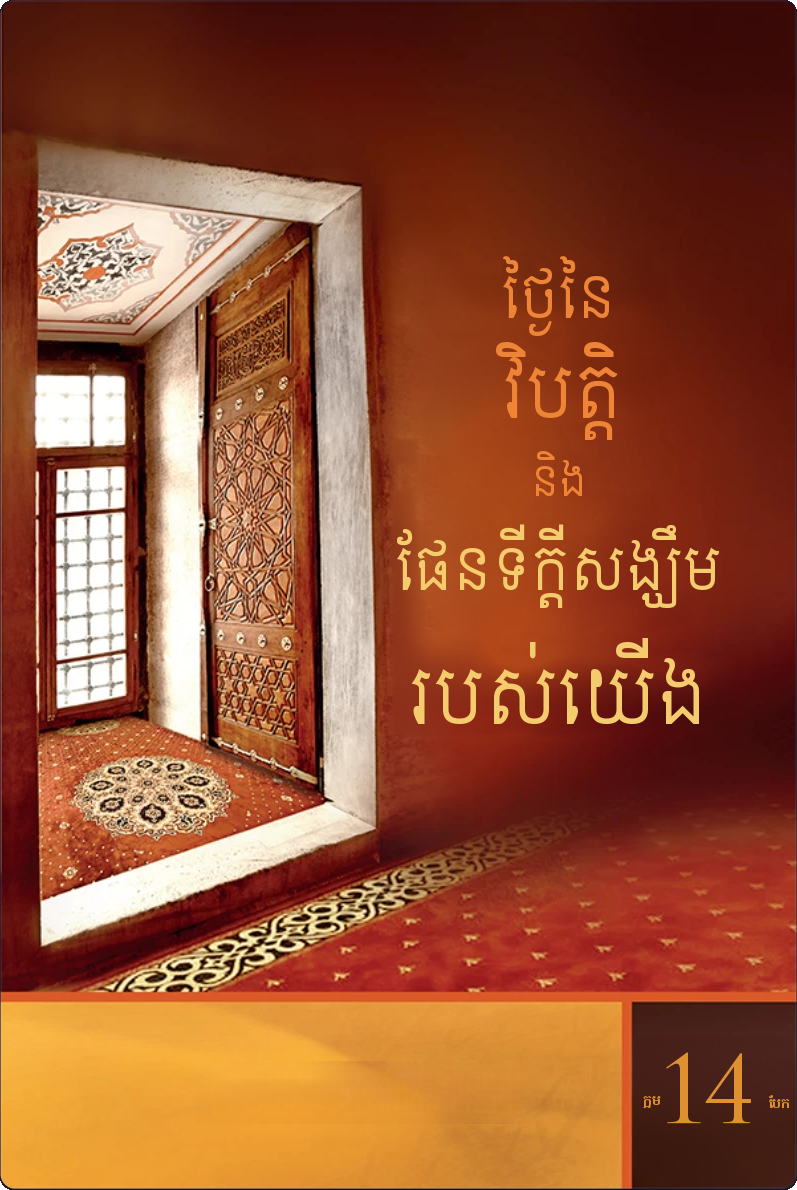
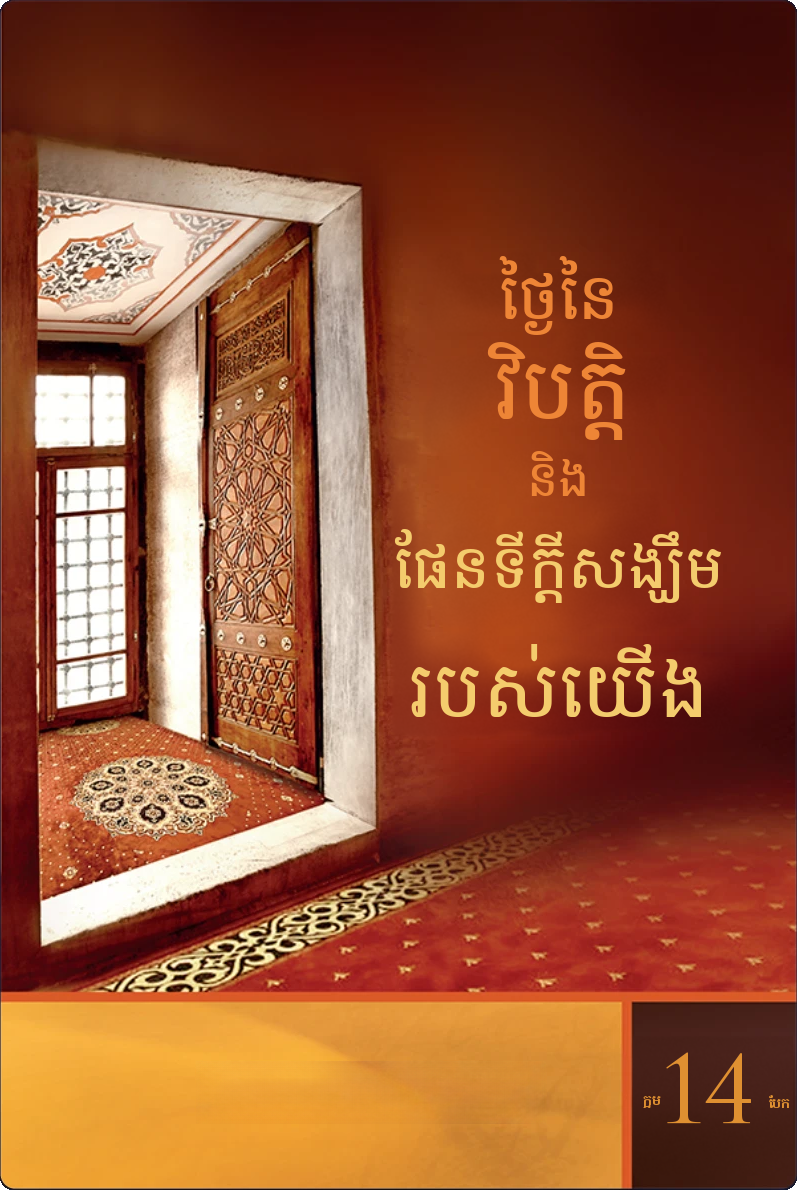
Kırık Testi 14: title in Suwannaphum Regular
Claude-Session: https://claude.ai/code/session_01HzzWWnp1YQyDSmbqFiedxq

Changed region(s): [[0.4818, 0.2176, 0.9034, 0.5286], [0.5119, 0.5286, 0.8733, 0.6218]]

diff --git a/covers/kirik14/make_khmer.py b/covers/kirik14/make_khmer.py
@@ -20,11 +20,11 @@ CX = 588
 
 # text, font, max width, ink height, centre y, colour, shadow colour (None = no shadow)
 LINES = [
-    ("ថ្ងៃនៃ", "Siemreap.ttf", 240, 80, 300, (238, 133, 54), None),           # buhranlı
-    ("វិបត្តិ", "Siemreap.ttf", 260, 100, 395, (238, 133, 54), None),         # günler
-    ("និង", "Siemreap.ttf", 110, 45, 478, (238, 133, 54), None),             # ve
-    ("ផែនទីក្ដីសង្ឃឹម", "Siemreap.ttf", 330, 110, 570, (244, 204, 109), None),  # ümit
-    ("របស់យើង", "Siemreap.ttf", 300, 95, 685, (244, 204, 109), None),        # atlasımız
+    ("ថ្ងៃនៃ", "Suwannaphum-Regular.ttf", 240, 80, 300, (238, 133, 54), None),           # buhranlı
+    ("វិបត្តិ", "Suwannaphum-Regular.ttf", 260, 100, 395, (238, 133, 54), None),         # günler
+    ("និង", "Suwannaphum-Regular.ttf", 110, 45, 478, (238, 133, 54), None),             # ve
+    ("ផែនទីក្ដីសង្ឃឹម", "Suwannaphum-Regular.ttf", 330, 110, 570, (244, 204, 109), None),  # ümit
+    ("របស់យើង", "Suwannaphum-Regular.ttf", 300, 95, 685, (244, 204, 109), None),        # atlasımız
 ]
 
 # number box: big orange digit with the series name in small letters on both sides (like "KIRIK 1 TESTİ")

diff --git a/CLAUDE.md b/CLAUDE.md
@@ -29,6 +29,7 @@ Interiors are NOT in git (`covers/interior/` is ignored): re-download them from 
 - Use the Khmer title printed in the translation (title page, foreword) when one exists; otherwise build it
   from the translators' own vocabulary and ask the user to confirm.
 - Prizma series: title ព្រិស្មា, font Siemreap. Kırık Testi series: ក្អមបែក, Siemreap, dark red + dark brown lines.
+- Font Suwannaphum (covers/fonts/Suwannaphum-*.ttf) is also available; the user chose Suwannaphum Regular for Kırık Testi 14.
 
 ## Status
 Done (cover + KDP covers + reading PDF): Asrın Getirdiği Tereddütler 1; Çağ ve Nesil 1; Kalbin Zümrüt Tepeleri 1–3;
